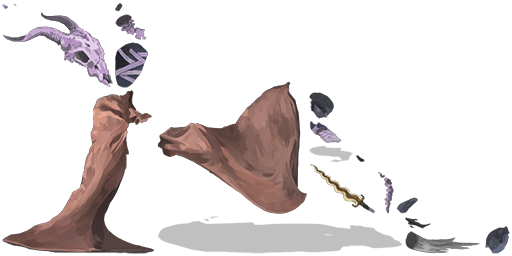
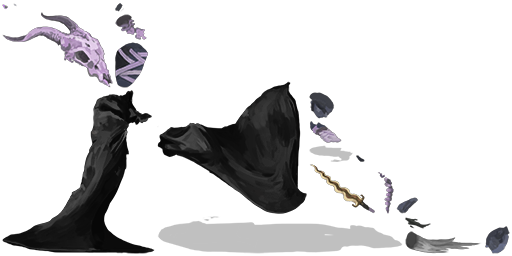
changed sprite colors

Changed region(s): [[0.3125, 0.3125, 0.625, 0.8438], [0.0, 0.3438, 0.3125, 1.0]]

diff --git a/src/main/java/witchmod/cards/MercurialRod.java b/src/main/java/witchmod/cards/MercurialRod.java
@@ -14,6 +14,7 @@ public class MercurialRod extends AbstractWitchCard{
 	public static final	String NAME = "Mercurial Rod";
 	public static final	String IMG = "cards/placeholder_attack.png";
 	public static final	String DESCRIPTION = "If you have 0 block gain !B! block, otherwise deal !D! damage.";
+	public static final	String[] EXTENDED_DESCRIPTION = new String[] {" NL Will gain !B! block"," NL Will deal !D! damage"};
 	
 	private static final CardRarity RARITY = CardRarity.COMMON;
 	private static final CardTarget TARGET = CardTarget.SELF_AND_ENEMY;
@@ -40,6 +41,26 @@ public class MercurialRod extends AbstractWitchCard{
 		}
 	}
 
+    @Override
+    public void applyPowers() {
+        super.applyPowers();
+        this.rawDescription = DESCRIPTION;
+        if (AbstractDungeon.player.currentBlock == 0) {
+        	rawDescription += EXTENDED_DESCRIPTION[0];
+        	target = CardTarget.SELF;
+        } else {
+        	rawDescription += EXTENDED_DESCRIPTION[1];
+        	target = CardTarget.ENEMY;
+        }
+        this.initializeDescription();
+    }
+    
+    @Override
+    public void onMoveToDiscard() {
+        this.rawDescription = DESCRIPTION;
+        this.initializeDescription();
+    }
+	
 	public AbstractCard makeCopy() {
 		return new MercurialRod();
 	}

diff --git a/src/main/java/witchmod/cards/HandOfAkelarre.java b/src/main/java/witchmod/cards/HandOfAkelarre.java
@@ -47,14 +47,14 @@ public class HandOfAkelarre extends AbstractWitchCard{
     public void applyPowers() {
     	calcBaseDamage();
         super.applyPowers();
-        this.rawDescription = upgraded?DESCRIPTION:DESCRIPTION_UPGRADED;
+        this.rawDescription = upgraded?DESCRIPTION_UPGRADED:DESCRIPTION;
         this.rawDescription = this.rawDescription + EXTENDED_DESCRIPTION;
         this.initializeDescription();
     }
 
     @Override
     public void onMoveToDiscard() {
-        this.rawDescription = upgraded?DESCRIPTION:DESCRIPTION_UPGRADED;
+        this.rawDescription = upgraded?DESCRIPTION_UPGRADED:DESCRIPTION;
         this.initializeDescription();
     }
 	
@@ -62,7 +62,7 @@ public class HandOfAkelarre extends AbstractWitchCard{
 	public void calculateCardDamage(AbstractMonster mo) {
 		calcBaseDamage();
 		super.calculateCardDamage(mo);	
-        this.rawDescription = upgraded?DESCRIPTION:DESCRIPTION_UPGRADED;
+        this.rawDescription = upgraded?DESCRIPTION_UPGRADED:DESCRIPTION;
         this.rawDescription = this.rawDescription + EXTENDED_DESCRIPTION;
         this.initializeDescription();
 	}
